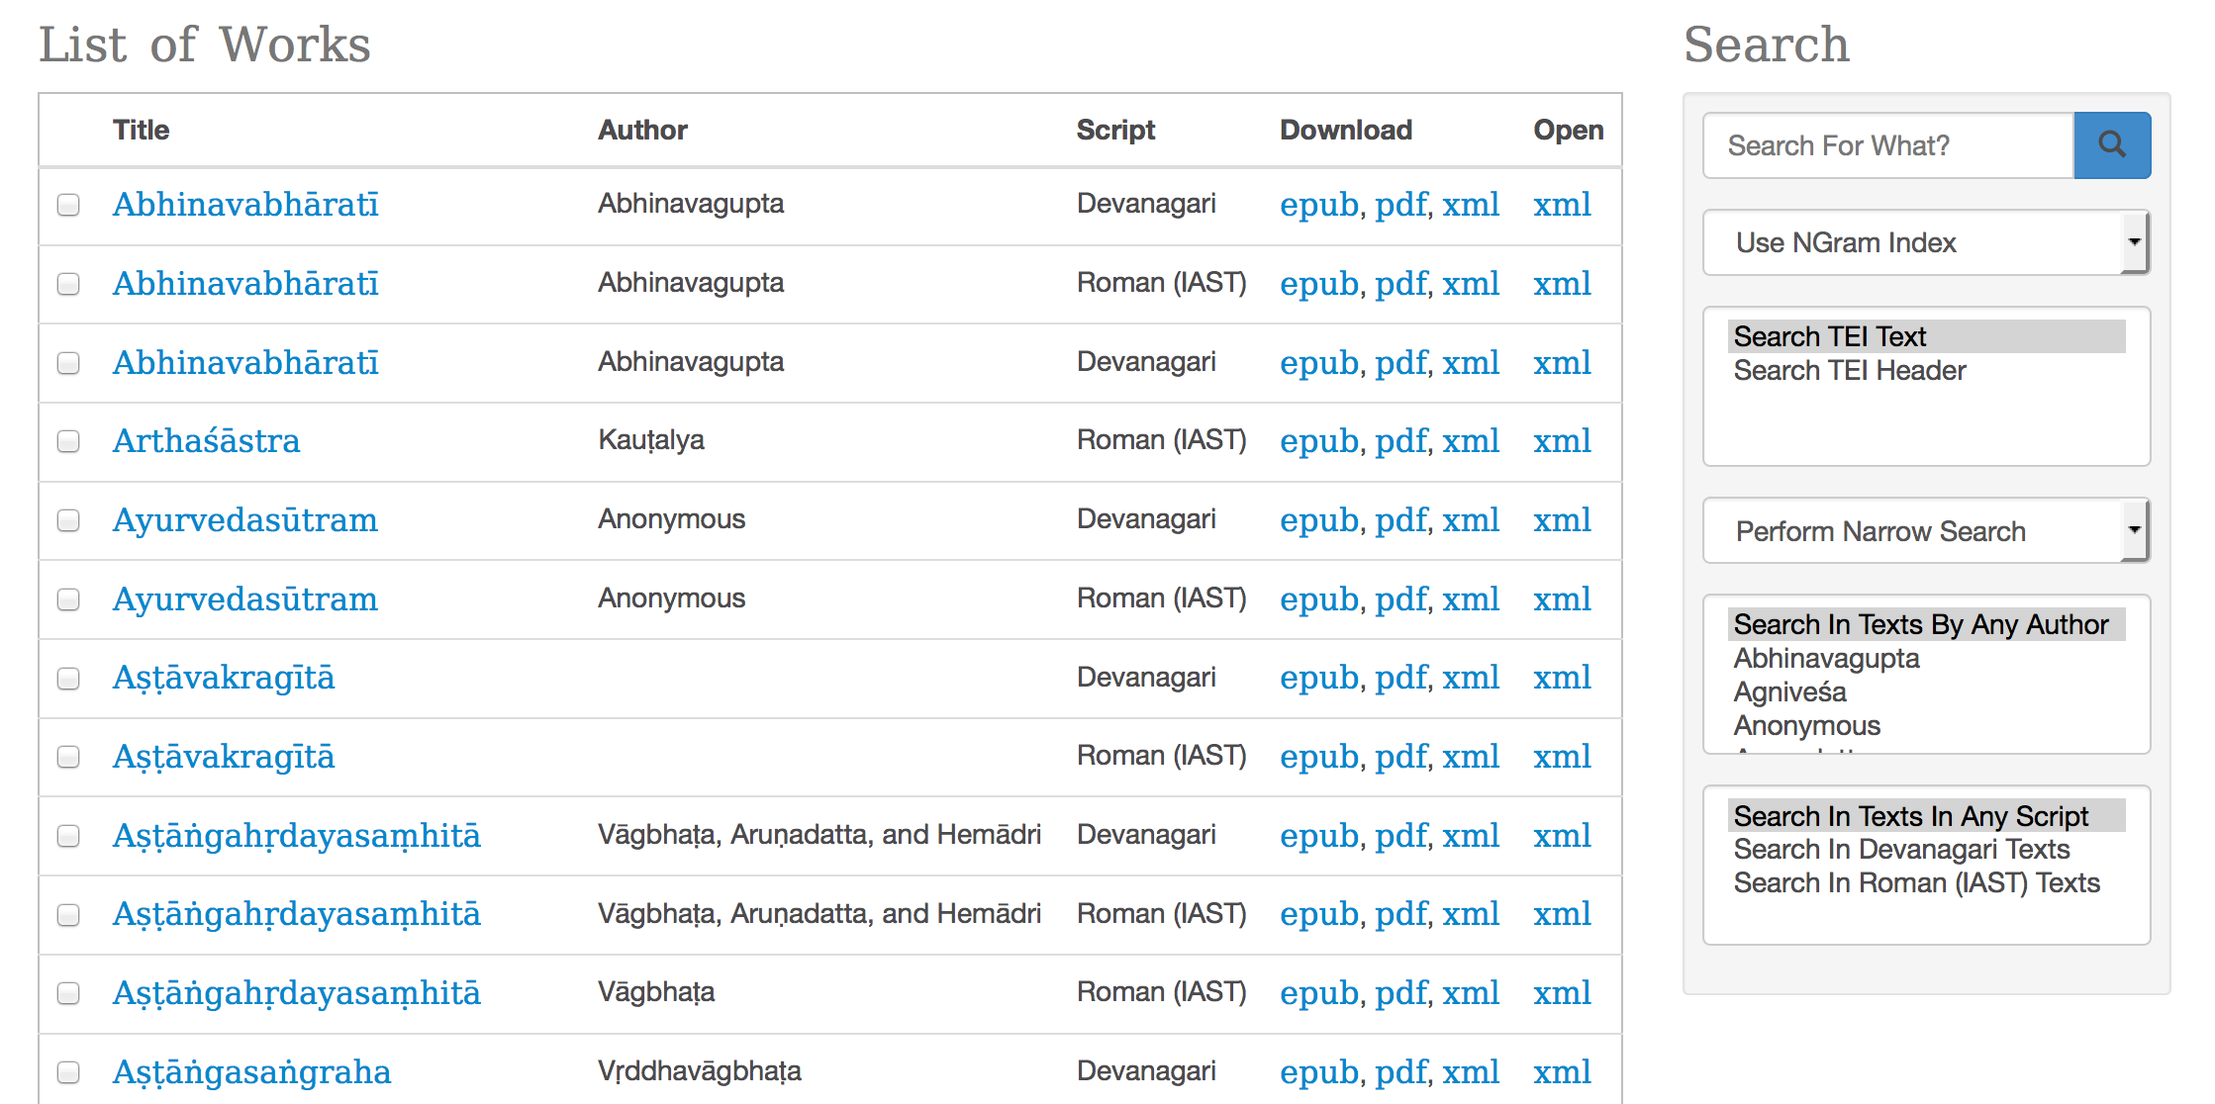
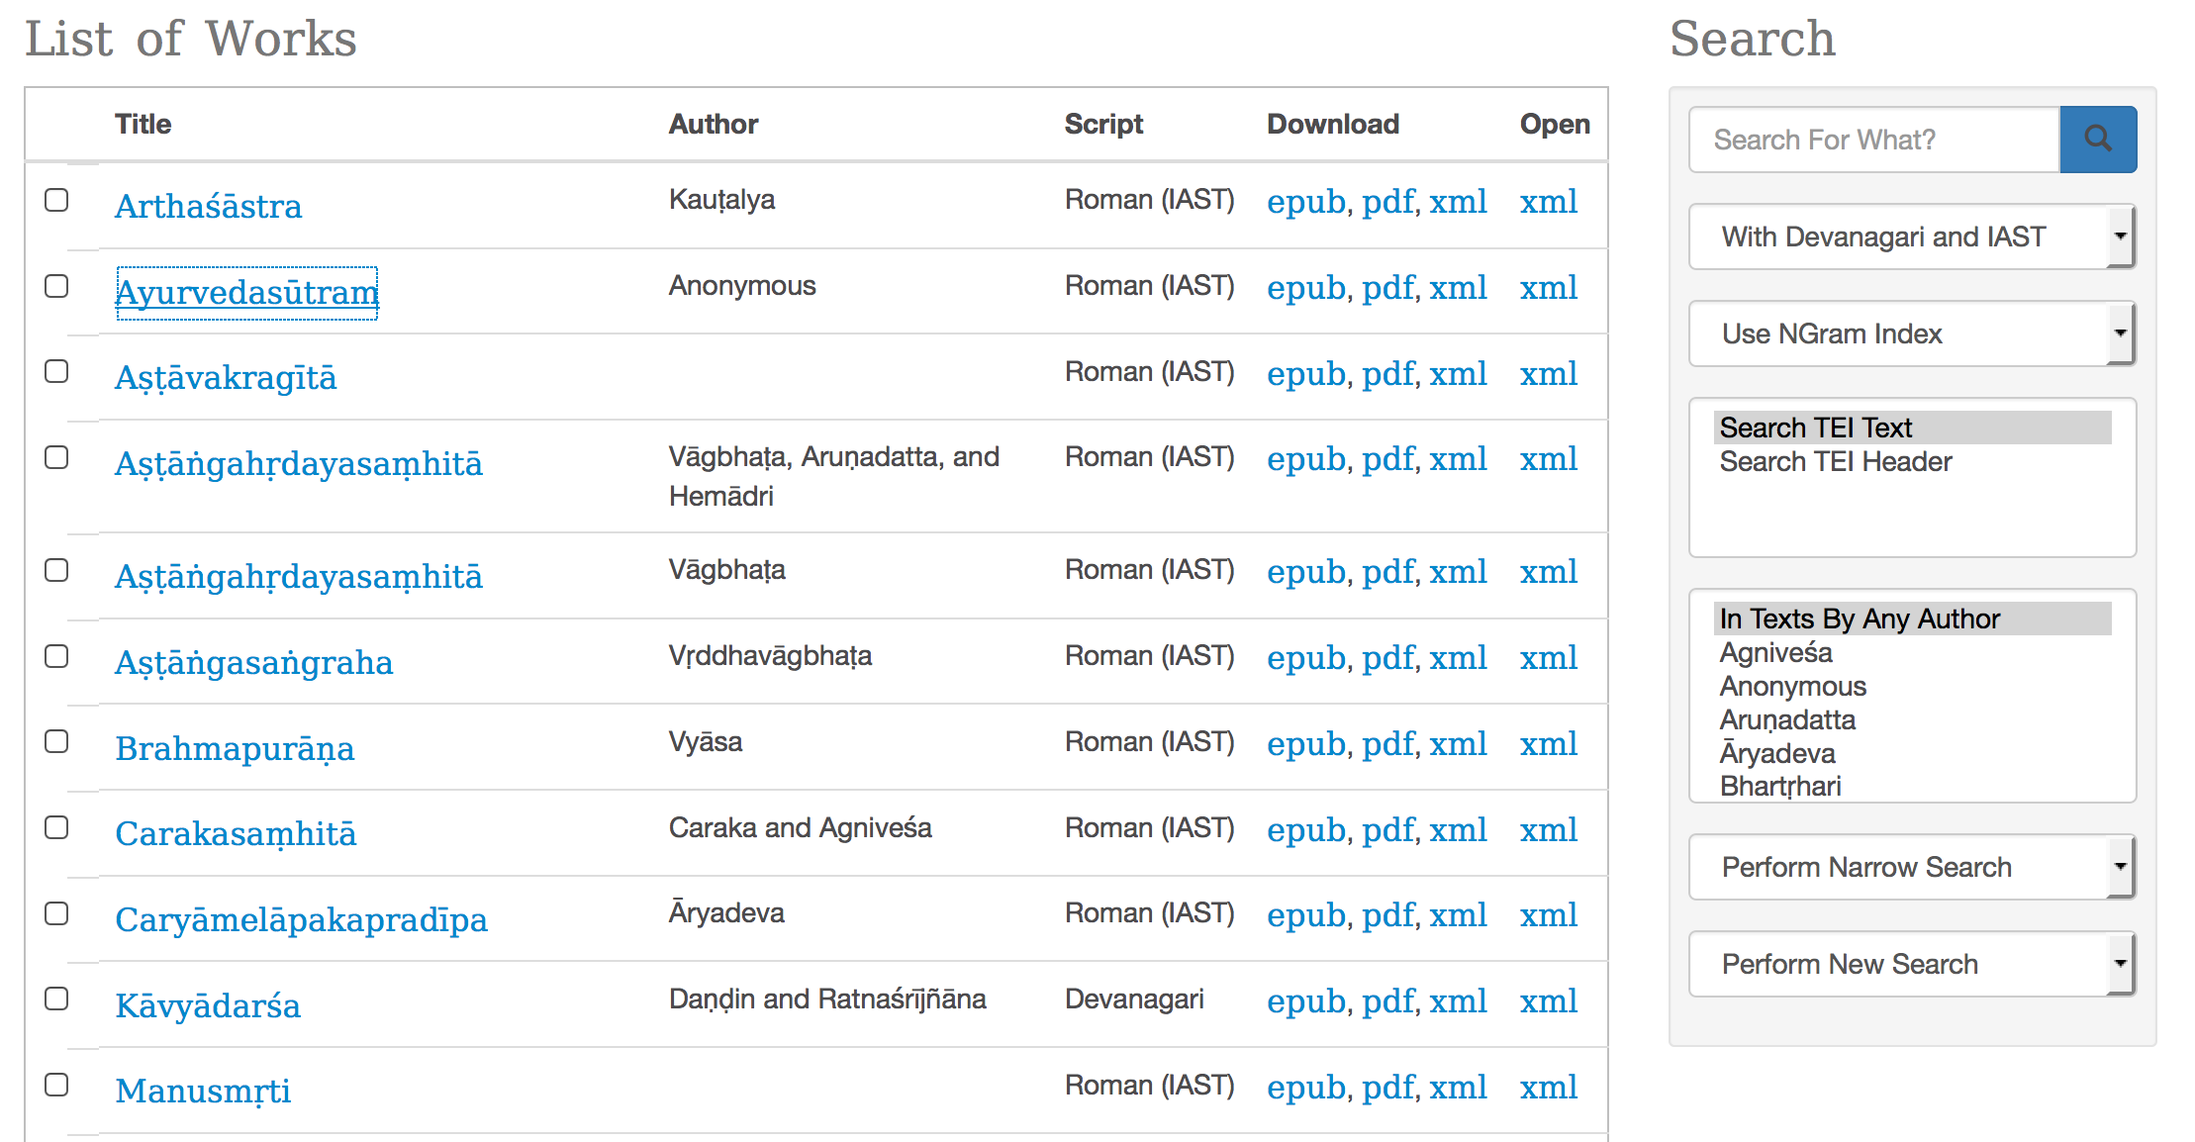
adding boolean search to help texts; applying widths to cells in work toc

diff --git a/docs/search-help-brief.html b/docs/search-help-brief.html
@@ -23,7 +23,8 @@
                 </li>
                 <li>If you input a IAST search term or Devanagari search term, your search term will
                     by default be automatically converted to make your search apply to texts both in
-                    IAST and in Devanagari. If you wish to choose whether to search using IAST or using Devanagari, see below.</li>
+                    IAST and in Devanagari. If you wish to choose whether to search using IAST or
+                    using Devanagari, see below.</li>
             </ul>
         </section>
         <section>
@@ -34,6 +35,32 @@
                 <li>Search For What? <ul>
                         <li>You can either enter the precise term to search for or use Regular
                             Expressions.</li>
+                    </ul>
+                </li>
+                <li>Search With Which Scripts? <ul>
+                        <li>If you enter a search term in IAST and choose "Search with Devanagari
+                            and IAST", your search term will be converted to Devanagari and your
+                            search will include both your original (IAST) search term and the search
+                            term converted into Devanagari.</li>
+                        <li>If you enter a search term in IAST and choose "Search with Devanagari",
+                            your search term will be converted to Devanagari and your search will
+                            not be performed with the original (IAST) search term, only with the
+                            search term converted into Devanagari.</li>
+                        <li>If you enter a search term in IAST and choose "Search with IAST", the
+                            search term will not be converted and your search will only be performed
+                            with your original (IAST) search term.</li>
+                        <li>This applies the other way 'round as well, so:</li>
+                        <li>If you enter a search term in Devanagari and choose "Search with
+                            Devanagari and IAST", your search term will be converted to IAST and
+                            your search will include both your original (Devanagari) search term and
+                            the search term converted into IAST.</li>
+                        <li>If you enter a search term in Devanagari and choose "Search with IAST",
+                            your search term will be converted to IAST and your search will not be
+                            performed with the original (Devanagari) search term, only with the
+                            search term converted into IAST.</li>
+                        <li>If you enter a search term in Devanagari and choose "Search with
+                            Devanagari", the search term will not be converted and your search will
+                            only be performed with your original (Devanagari) search term.</li>
                     </ul>
                 </li>
                 <li>Use Which Index? <ul>
@@ -107,6 +134,14 @@
                         <li>You can choose to search the TEI Header or the TEI Text or both.</li>
                     </ul>
                 </li>
+                <li>Search In Texts By Which Authors? <ul>
+                        <li>You can choose Search In Texts By Any Author to search throughout the
+                            corpus or you can select one or more authors to search in the texts
+                            attributed to them.</li>
+                        <li>Note that you can also select individual texts to search by clicking on
+                            the check-boxes to the left of the titles.</li>
+                    </ul>
+                </li>
                 <li>Search Narrowly Or Broadly? <ul>
                         <li>This option is mainly relevant you are interested in finding the
                             cooccurrence of more than one search term within a certain part of the
@@ -116,38 +151,25 @@
                             in a larger part, but not in a smaller part.</li>
                     </ul>
                 </li>
-                <li>Search In Texts By Which Authors? <ul>
-                        <li>You can choose Search In Texts By Any Author to search throughout the
-                            corpus or you can select one or more authors to search in the texts
-                            attributed to them.</li>
-                        <li>Note that you can also select individual texts to search by clicking on
-                            the check-boxes to the left of the titles.</li>
-                    </ul>
-                </li>
-                <li>Search With Which Scripts? <ul>
-                        <li>If you enter a search term in IAST and choose "Search with Devanagari
-                            and IAST", you search term will be converted to Devanagari and your
-                            search will include both your original (IAST) search term and the search
-                            term converted into Devanagari.</li>
-                        <li>If you enter a search term in IAST and choose "Search with Devanagari",
-                            you search term will be converted to Devanagari and your search will not
-                            be performed with the original (IAST) search term, only with the search
-                            term converted into Devanagari.</li>
-                        <li>If you enter a search term in IAST and choose "Search with IAST", the
-                            search term will not be converted and your search will only be performed
-                            with your original (IAST) search term.</li>
-                    <li>This applies the other way 'round as well, so:</li>
-                        <li>If you enter a search term in Devanagari and choose "Search with
-                            Devanagari and IAST", you search term will be converted to IAST
-                            and your search will include both your original (Devanagari) search term
-                            and the search term converted into IAST.</li>
-                        <li>If you enter a search term in Devanagari and choose "Search with IAST",
-                            you search term will be converted to IAST and your search will not be
-                            performed with the original (Devanagari) search term, only with the
-                            search term converted into IAST.</li>
-                        <li>If you enter a search term in Devanagari and choose "Search with
-                            Devanagari", the search term will not be converted and your search will
-                            only be performed with your original (Devanagari) search term.</li>
+                <li>Perform New Search or Continue Last Search? <ul>
+                        <li>This gives you the option to refine your previous search, by restricting
+                            or broadening the search result.</li>
+                        <li>If you choose Perform New Search, your search will not relate to your
+                            previous search.</li>
+                        <li>If you choose "AND Last Search", your search will restrict your last
+                            search by requiring that the search criteria for both the last and the
+                            present search are satisfied. You typically use this to search for the
+                            co-occurence of two words. </li>
+                        <li>If you choose "OR Last Search", your search will broaden your last
+                            search by including both the results from the last and the present
+                            search in the search results. You typically use this to search for
+                            alternative forms of a word. </li>
+                        <li>If you choose "NOT Last Search", your search will restrict your last
+                            search by excluding the results from the present search. You use this to
+                            remove specific hits from the search results. </li>
+                        <li>Note that if you search using the Lucene Full-Text Index, you can perform
+                            these operations in one search. If you search using the Ngram Index,
+                            this is the only way at present to use Boolean operators.</li>
                     </ul>
                 </li>
             </ul>

diff --git a/docs/search-help-interface.html b/docs/search-help-interface.html
@@ -1,5 +1,4 @@
-<div class="help" data-template="templates:surround" data-template-with="template.html"
-    data-template-at="content">
+<div class="help" data-template="templates:surround" data-template-with="template.html" data-template-at="content">
     <div class="container">
         <div class="row help">
             <div class="col-md-12">
@@ -30,8 +29,7 @@
                         <p>There are also links for downloading the texts in various formats: epub,
                             pdf and xml (zipped).</p>
                         <p> The last link gives the possibility of opening the XML containing the
-                            text in an application called eXide. eXide is an application in the <a
-                                href="http:exist-db.org/">eXist-db database</a> that has been used
+                            text in an application called eXide. eXide is an application in the <a href="http:exist-db.org/">eXist-db database</a> that has been used
                             to develop the SARIT application. eXide also allows you to perform
                             searches, using XPath and XQuery, the main programming languages used in
                             the SARIT application, but that is another (rather long) story ….</p>
@@ -52,8 +50,13 @@
                             or you use regular expressions, masking your search expression by use of
                             wildcards etc. However, the SARIT search interface offers more options
                             than you can specify in the search term field, options for e.g.
-                            performing proximity searches. This is explained in the <a
-                                href="search-help-lucene.html">Lucene Search Help</a>.</p>
+                            performing proximity searches. This is explained in the <a href="search-help-lucene.html">Lucene Search Help</a>.</p>
+                    </div>
+                    <div>
+                        <h5>Search With Which Scripts?</h5>
+                        <p>Your search term is automatically converted to make your search proceed
+                            in both IAST romanisation and in Devanagari. If you wish to limit this,
+                            select which script to search with.</p>
                     </div>
                     <div>
                         <h5>Use Which Index?</h5>
@@ -82,8 +85,7 @@
                         <p>Word division is a matter of degree. Among the SARIT texts, only the
                             Arthaśāstra can be said to be divided into words in a way which makes
                             use of the Lucene Full-Text index immediately possible. For information
-                            about the remaining texts, see <a href="search-help-word-division.html"
-                                >Word Division</a>. With these texts, you should as a rule use the
+                            about the remaining texts, see <a href="search-help-word-division.html">Word Division</a>. With these texts, you should as a rule use the
                             NGram Index.</p>
                         <p>Note that this does not mean that the NGram Index cannot be used with
                             texts that are divided into words – the two indexes make possible
@@ -91,15 +93,13 @@
                             for strings of characters (the NGram Index). You will almost always get
                             more hits with the NGram Index, but the Lucene Full-Text Index gives you
                             more search options (and is much slower).</p>
-                        <p>There are further explanations in the <a href="search-help-index.html"
-                                >Indexes and Searching Help</a>.</p>
+                        <p>There are further explanations in the <a href="search-help-index.html">Indexes and Searching Help</a>.</p>
                     </div>
                     <div>
                         <h5>Use Which Search Mode?</h5>
                         <p>This dropdown menu is only displayed if you choose Use Lucene Full-Text
                             Index.</p>
-                        <p>The many options are explained in more detail in the <a
-                                href="search-help-lucene.html">Lucene Search Help</a>, but the most
+                        <p>The many options are explained in more detail in the <a href="search-help-lucene.html">Lucene Search Help</a>, but the most
                             commonly used ones are the top ones, "Any Search Term" and "All Search
                             Terms Together". They are of relevance only if you search for several
                             words at a time. You should choose Any Search Term if you want a hit no
@@ -150,10 +150,22 @@
                             search throughout all texts.</p>
                     </div>
                     <div>
-                        <h5>Search With Which Scripts?</h5>
-                        <p>Your search term is automatically converted to make your search proceed
-                            in both IAST romanisation and in Devanagari. If you wish to limit this,
-                            select which script to search with.</p>
+                        <h5>Perform New Search or Continue Last Search? </h5>
+                        <p>This gives you the option to refine your previous search, by restricting
+                            or broadening the search result. </p>
+                        <p>The default value is to perform a new search. If you perform a new search, your search will not relate to your
+                            previous search.</p>
+                        <p>If you choose "AND Last Search", your search will restrict your last
+                            search by requiring that the search criteria for both the last and the
+                            present search are satisfied. You typically use this to search for the
+                            co-occurence of two words. </p>
+                        <p>If you choose "OR Last Search", your search will broaden your last
+                            search by including both the results from the last and the present
+                            search in the search results. You typically use this to search for
+                            alternative forms of a word. </p>
+                        <p>If you choose "NOT Last Search", your search will restrict your last
+                            search by excluding the results from the present search. You use this to
+                            remove specific hits from the search results. </p>
                     </div>
                 </div>
                 <div>

diff --git a/browse.html b/browse.html
@@ -68,7 +68,7 @@
                         </select>
                     </div>
                 </div>
-                <div  id="bool-selection" class="form-group" data-toggle="tooltip" data-placement="left" title="Perform New Search or Continue Last Search?">
+                <div id="bool-selection" class="form-group" data-toggle="tooltip" data-placement="left" title="Perform New Search or Continue Last Search?">
                     <div class="col-md-12 col-xs-12">
                         <select name="bool" class="form-control" data-template="templates:form-control">
                             <option value="new" selected="selected">Perform New Search</option>
@@ -78,6 +78,15 @@
                         </select>
                     </div>
                 </div>
+<!--                <div id="display-script-selection" class="form-group" data-toggle="tooltip" data-placement="left" title="Display Search Results in Which Script?">-->
+<!--                    <div class="col-md-12 col-xs-12">-->
+<!--                        <select name="display-script" class="form-control" data-template="templates:form-control">-->
+<!--                            <option value="original" selected="selected">As Encoded</option>-->
+<!--                            <option value="iast">IAST</option>-->
+<!--                            <option value="devanagari">Devanagari</option>-->
+<!--                        </select>-->
+<!--                    </div>-->
+<!--                </div>-->
             </div>
         </div>
         <div class="col-md-9 col-md-pull-3">
@@ -95,24 +104,24 @@
                 </thead>
                 <tbody data-template="app:list-works">
                     <tr data-template="templates:each" data-template-from="works" data-template-to="work">
-                        <td>
+                        <td class="checkbox">
                             <input type="checkbox" name="target-texts" data-template="app:checkbox"/>
                         </td>
-                        <td>
+                        <td class="work-title">
                             <a href="" data-template="app:work-title"/>
                         </td>
-                        <td>
+                        <td class="work-author">
                             <a href="" data-template="app:work-author"/>
                         </td>
-                        <td class="work-type">
+                        <td class="work-lang">
                             <a href="" data-template="app:work-lang"/>
                         </td>
-                        <td>
+                        <td class="download-links">
                             <a href="" data-template="app:epub-link">epub</a>, 
                             <a href="" data-template="app:pdf-link">pdf</a>,
                             <a href="" data-template="app:zip-link">xml</a>
                         </td>
-                        <td>
+                        <td class="exide-link">
                             <a href="" data-template="app:xml-link">xml</a>
                         </td>
                     </tr>

diff --git a/resources/css/styles.css b/resources/css/styles.css
@@ -887,3 +887,22 @@ body .play button {
 .lemma {
   font-weight: bold;
 }
+table .checkbox {
+  width: 5%;
+  margin-left: 1.5em;
+}
+table .work-title {
+  width: 35%;
+}
+table .work-author {
+  width: 25%;
+}
+table .work-lang {
+  width: 10%;
+}
+table .download-links {
+  width: 10%;
+}
+table .exide-link {
+  width: 10%;
+}

diff --git a/resources/css/styles.less b/resources/css/styles.less
@@ -465,3 +465,12 @@ body .play button {
 .lemma {
     font-weight:bold;
 }
+
+table {
+    .checkbox {width: 5%; margin-left:1.5em;}
+    .work-title {width: 35%;}
+    .work-author {width: 25%;}
+    .work-lang {width: 10%;}
+    .download-links {width: 10%;}
+    .exide-link {width: 10%;}
+}
